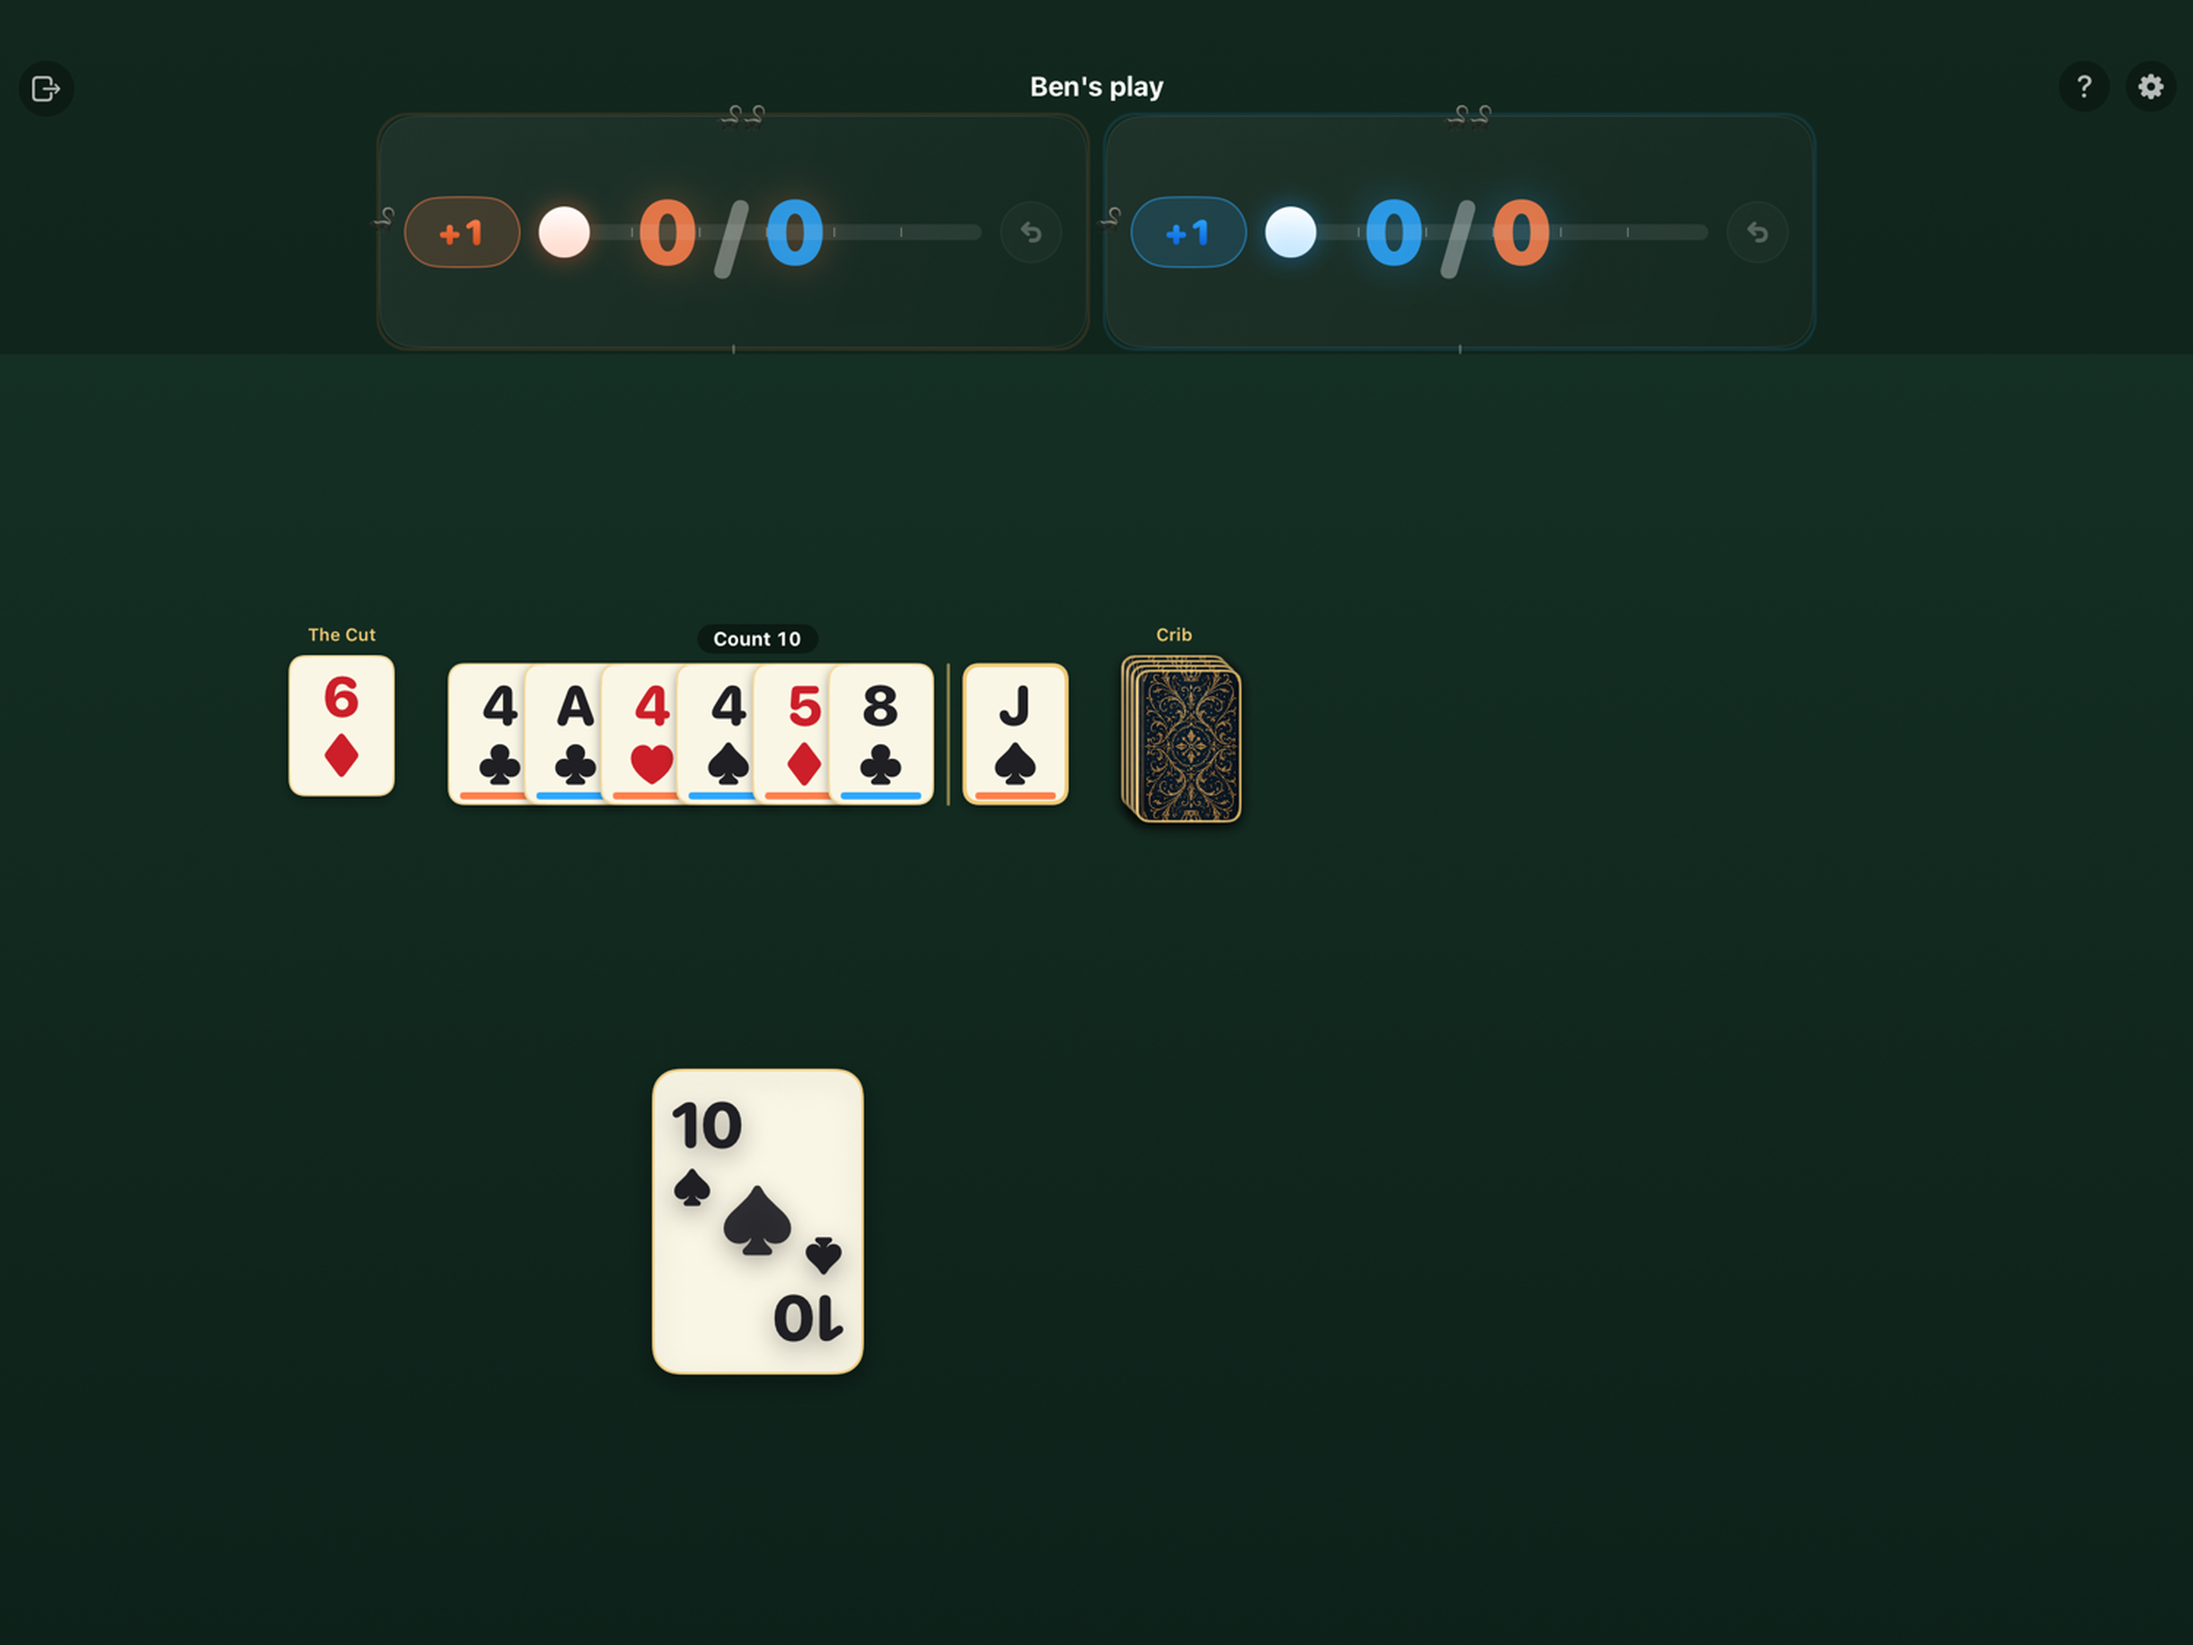
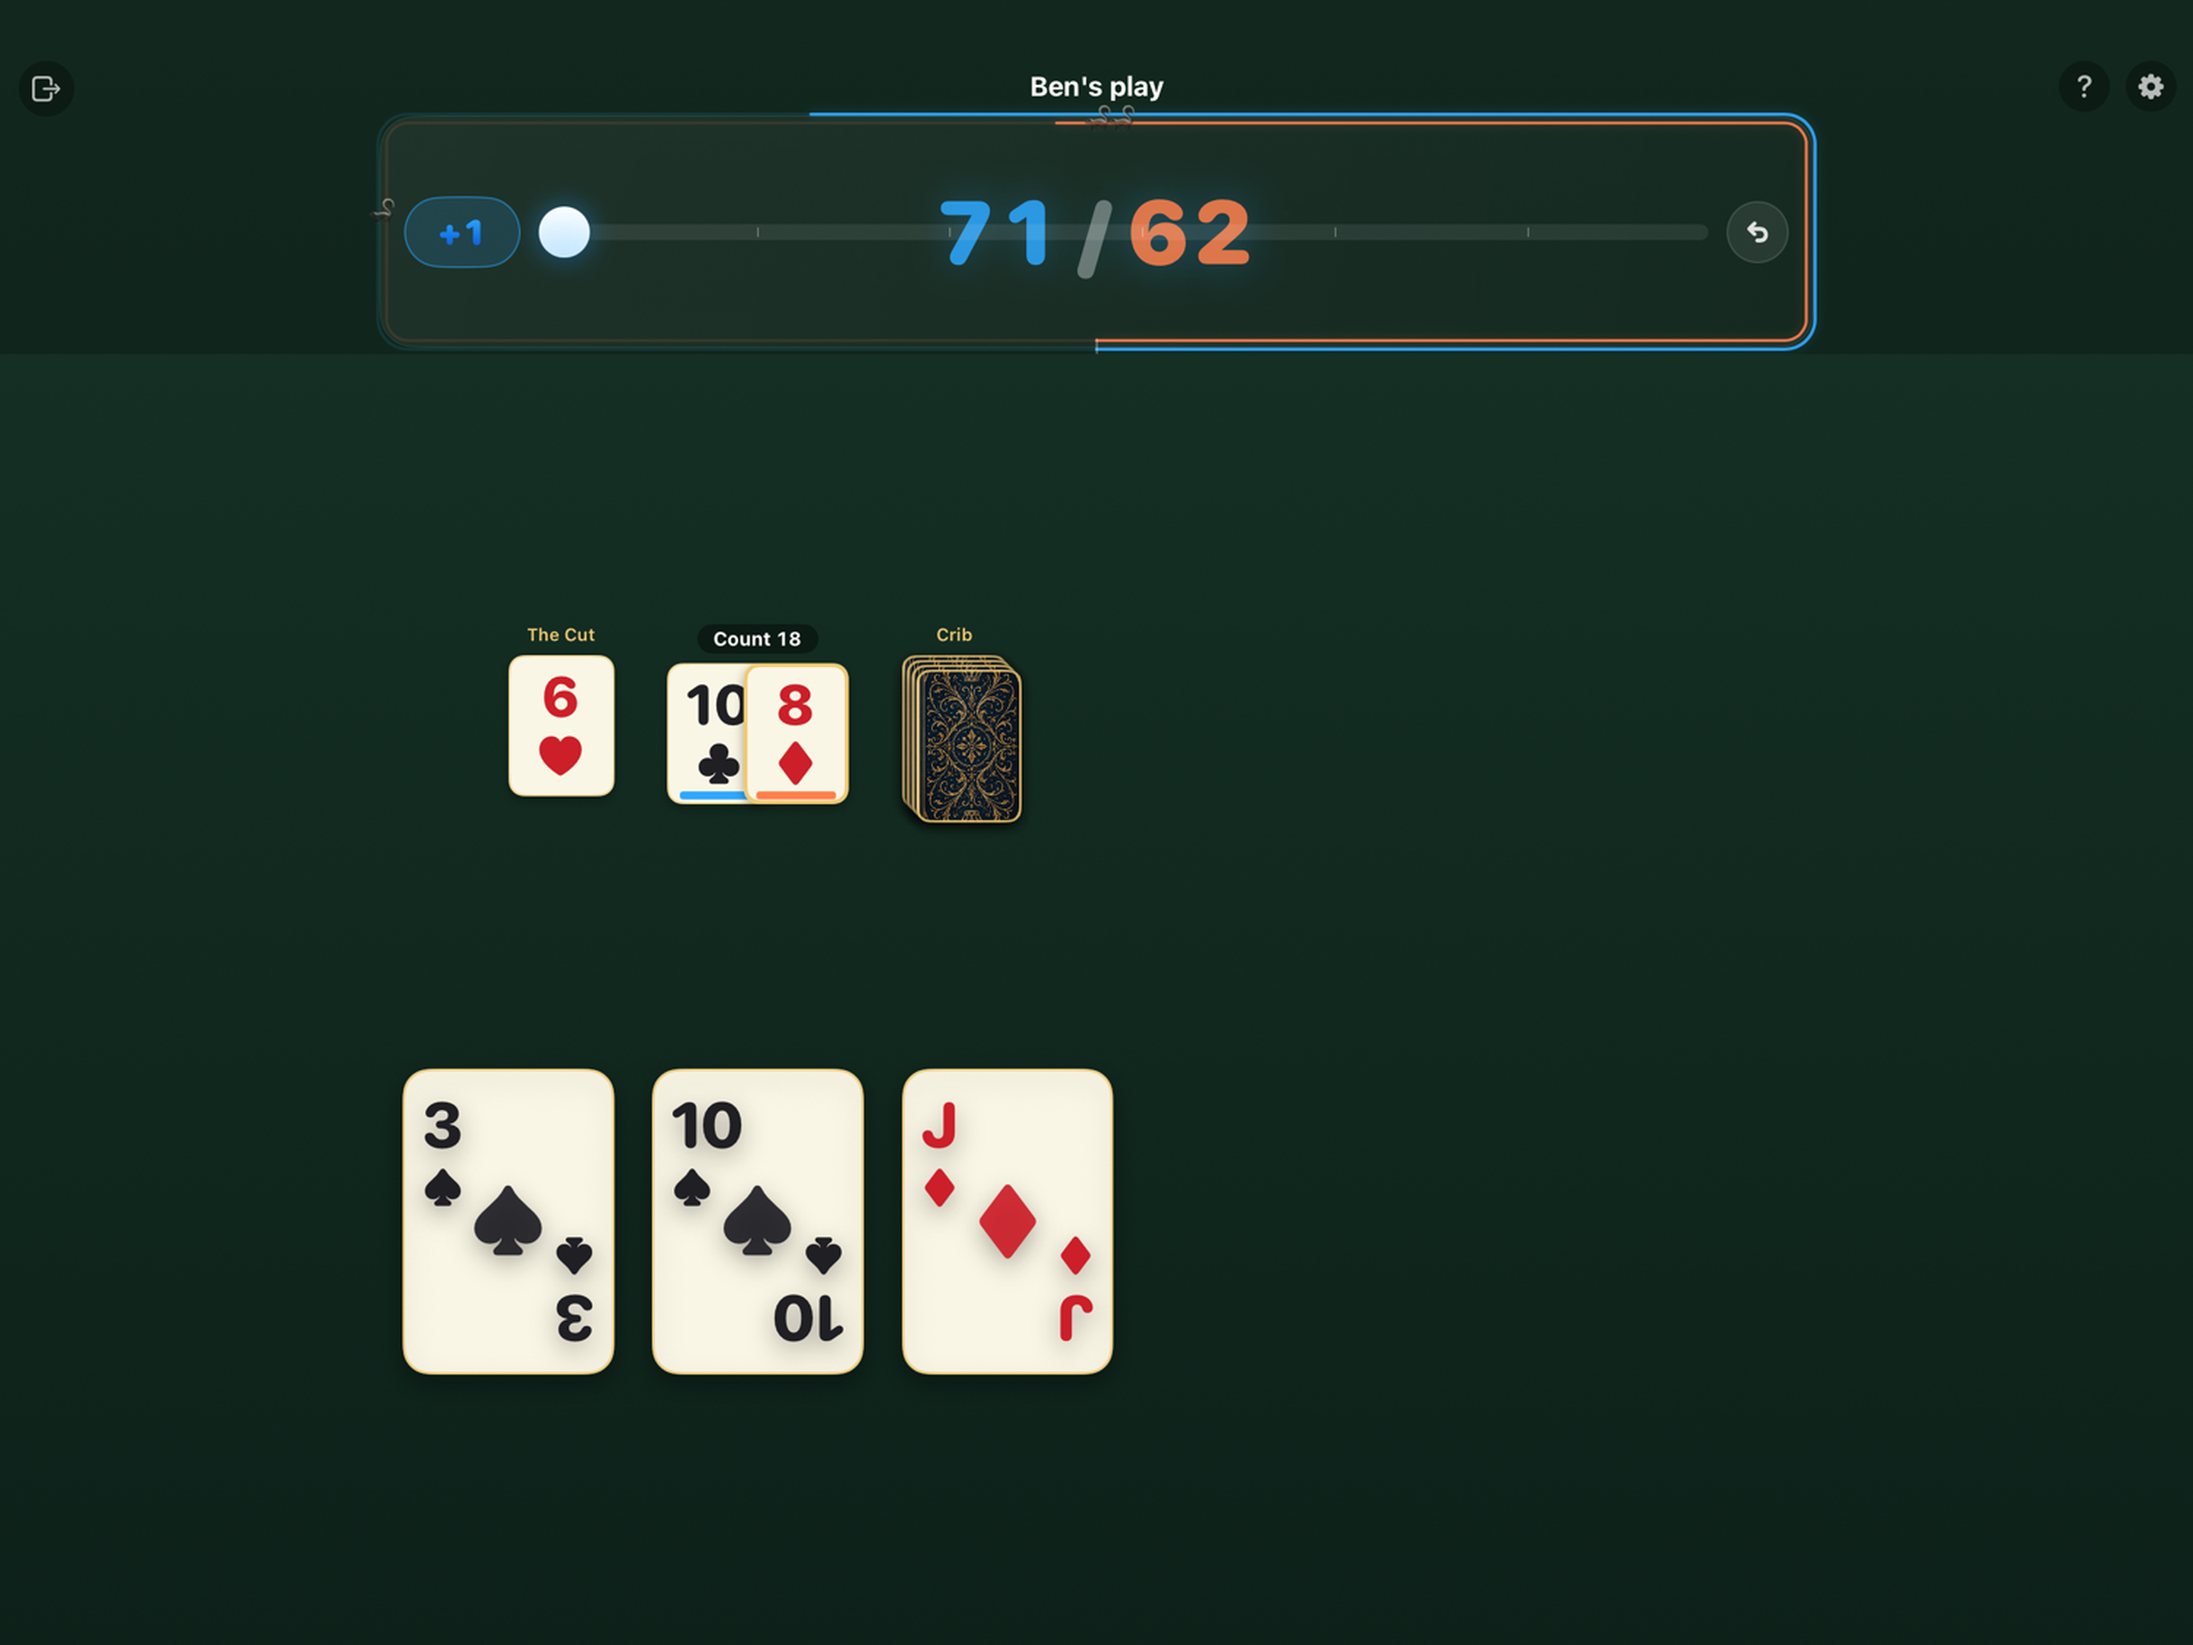
Regenerate the store screenshots and rewrite 1.7's metadata
Five shots now, all rendered from ScreenshotFixtures: pegging, the show, the in-person
cut, the scoreboard, and the skunk win. The scoreboard is new to the set — it's the
reason a lot of people will want the app — and What's New covers the whole release
rather than only the pre-board-mode half of it: scoreboard mode, achievements and the
leaderboard, the stats history, connection recovery through a force quit, crib markers,
the last-card call, large-text fixes, and iPad sizing.

Description gains "Just keeping score?" and "Your record" sections; keywords trade
"classic" for "scoreboard".

diff --git a/Pair for two/ScreenshotFixtures.swift b/Pair for two/ScreenshotFixtures.swift
@@ -18,6 +18,11 @@ import SwiftUI
 // Render each preview below at the required device and scale it to Apple's exact pixels:
 // iPhone 6.9" → 2868 × 1320, iPad 13" → 2752 × 2064.
 
+/// Set while the screenshot previews render, so `DealtCardsRow` starts fully dealt rather than
+/// animating cards in — a preview snapshot is taken on the first frame, where the animation has
+/// revealed nothing and the table photographs empty.
+nonisolated(unsafe) var dealsCardsInstantly = false
+
 /// Stands in for a host: delivers one prepared snapshot, then holds the line open.
 nonisolated final class PreviewSnapshotTransport: GameTransport, Sendable {
 
@@ -80,17 +85,28 @@ enum ScreenshotFixture {
         CribbageEngine.claim(&s, player: .two, amount: ben)
     }
 
-    /// Shot 1 — mid-play: cards on the pile, a running count worth reading, and the guest on turn.
+    /// Shot 1 — mid-play: cards on the pile, a running count worth reading, and the guest holding
+    /// cards they can actually play. Seeds are searched because the first position to hand is often
+    /// "no card to play — say Go", which shows a greyed-out hand and explains nothing.
     static func pegging() -> PlayerSnapshot {
-        var s = dealt(seed: 77)
+        for bump in 0..<400 {
+            var s = dealt(seed: 2000 &+ UInt64(bump))
+            cutStarter(&s)
+            score(&s, ann: 62, ben: 71)
+            var steps = 0
+            while s.whoseTurn != nil, steps < 12 {
+                if s.whoseTurn == .two, s.playSequence.count >= 2, (10...24).contains(s.runningCount),
+                   s.unplayed(of: .two).count >= 3,
+                   !CribbageScorer.legalPlays(hand: s.unplayed(of: .two), count: s.runningCount).isEmpty {
+                    return s.snapshot(for: .two)
+                }
+                playOne(&s)
+                steps += 1
+            }
+        }
+        var s = dealt(seed: 2000)
         cutStarter(&s)
         score(&s, ann: 62, ben: 71)
-        var steps = 0
-        while s.whoseTurn != nil, steps < 12 {
-            if s.whoseTurn == .two, s.runningCount >= 12, s.playSequence.count >= 3 { break }
-            playOne(&s)
-            steps += 1
-        }
         return s.snapshot(for: .two)
     }
 
@@ -128,7 +144,8 @@ enum ScreenshotFixture {
         CribbageEngine.advance(&s)
         // A believable path to 121 rather than one giant claim, so the win screen's scoring replay
         // has something to replay.
-        for amount in [12, 9, 16, 8, 14, 11, 7, 15, 6, 13] {
+        // Ann finishes on 77 — under 91, so the win screen is the skunk celebration.
+        for amount in [12, 9, 16, 8, 14, 11, 7] {
             CribbageEngine.claim(&s, player: .one, amount: amount)
         }
         for amount in [16, 21, 14, 19, 12, 17, 22] {
@@ -153,6 +170,10 @@ private struct GuestShot: View {
     @State private var vm: GameViewModel
 
     init(_ snapshot: PlayerSnapshot) {
+        dealsCardsInstantly = true
+        // A finished game otherwise opens on the pre-win scoring replay, which is what would get
+        // photographed instead of the win itself.
+        UserDefaults.standard.set(false, forKey: "replayBeforeWin")
         _vm = State(initialValue: GameViewModel.previewGuest(snapshot: snapshot))
     }
 
@@ -175,8 +196,22 @@ private struct GuestShot: View {
     GuestShot(ScreenshotFixture.winner())
 }
 
+/// The scoreboard shot, with both seats named and colored to match the play shots — the stored
+/// defaults are otherwise the unnamed "Player"/"Opponent" a fresh install starts with.
+private struct BoardShot: View {
+    init() {
+        let defaults = UserDefaults.standard
+        defaults.set("Ben", forKey: "localName")
+        defaults.set(7, forKey: "localColorID")
+        defaults.set("Ann", forKey: "boardFarName")
+        defaults.set(1, forKey: "boardFarColorID")
+    }
+
+    var body: some View { BoardView(onExit: {}, startGame: ScreenshotFixture.board()) }
+}
+
 #Preview("Shot 5 — scoreboard", traits: .landscapeLeft) {
-    BoardView(onExit: {}, startGame: ScreenshotFixture.board())
+    BoardShot()
 }
 
 #endif

diff --git a/Pair for two/GameTableView.swift b/Pair for two/GameTableView.swift
@@ -1171,7 +1171,18 @@ private struct DealtCardsRow: View {
     /// Optional per-card marker drawn just below the card — used by the crib to show, in each
     /// player's color, who put that card in. Returns nil for cards that shouldn't be marked.
     var marker: (Card) -> (color: Color, name: String)? = { _ in nil }
-    @State private var revealed = 0
+    @State private var revealed = DealtCardsRow.initialRevealed
+
+    /// Normally nothing is revealed until the deal-in animation runs. The App Store screenshot
+    /// previews start fully dealt instead: a preview snapshot is taken on the first frame, where the
+    /// animation has revealed no cards at all, leaving an empty table in the shot.
+    private static var initialRevealed: Int {
+#if DEBUG
+        dealsCardsInstantly ? Int.max : 0
+#else
+        0
+#endif
+    }
 
     var body: some View {
         HStack(spacing: 8) {
@@ -1196,6 +1207,9 @@ private struct DealtCardsRow: View {
             }
         }
         .task(id: dealSignal) {
+#if DEBUG
+            if dealsCardsInstantly { revealed = cards.count; return }
+#endif
             revealed = 0
             guard !cards.isEmpty else { return }
             // One riffle for the whole deal-out. Per-card feedback fired a synchronous Core Haptics

diff --git a/Marketing/README.md b/Marketing/README.md
@@ -5,8 +5,8 @@ Everything for submitting **Pair for Two**.
 ## Contents
 - **`APP_STORE.md`** — copy/paste metadata: name, subtitle, promo text, description, keywords, what's‑new, category, age rating, privacy answers, export compliance, and **App Review notes** (important: it's a two‑device game).
 - **Website** — the single‑page **privacy policy + contact/support** (apps@feingold5.com) lives at **`docs/index.html`** (repo root) and is published via **GitHub Pages** at **https://jiroikedafeingold.github.io/pair-for-two/**. Use that URL for the Support URL, Marketing URL, and Privacy Policy URL fields. It covers **both apps** — iOS/iPadOS and the Android build in `~/Projects/PairForTwoAndroid` — so it also serves Play's privacy‑policy requirement and its data‑safety answers. Keep it that way: anything that changes what either app sends over the wire (a new transport, an online mode on Android) needs a matching edit here.
-- **`screenshots/iphone-6.9/`** — 4 screenshots, **2868 × 1320** (iPhone 6.9", landscape). One 6.9" set covers all iPhone sizes.
-- **`screenshots/ipad-13/`** — 4 screenshots, **2752 × 2064** (iPad 13", landscape).
+- **`screenshots/iphone-6.9/`** — 5 screenshots, **2868 × 1320** (iPhone 6.9", landscape). One 6.9" set covers all iPhone sizes.
+- **`screenshots/ipad-13/`** — 5 screenshots, **2752 × 2064** (iPad 13", landscape).
 - **`screenshots/raw/`** — the source renders before upscaling (safe to delete).
 
 ## Screenshots
@@ -23,14 +23,17 @@ Generated from SwiftUI previews (landscape) and scaled to Apple's exact required
   it's what a new player sees. `.feedback` puts scoring flag chips on the rail that most people
   never see.
 - **Never capture through the debug pass-and-play (loopback) path.** It's `#if DEBUG` only and
-  compiled out of release, so it isn't the shipping experience. Reach the screens by pushing
-  fixture data in instead — a DEBUG-only preview transport that delivers a hand-built
-  `PlayerSnapshot` renders through the ordinary guest path.
-- Capture gotchas, both of which cost time before: the preview snapshot is taken on the **first
-  frame**, so any deal-in animation renders invisible (and Xcode preserves `@State` across edits,
-  so bumping an initial value won't fix it — the row has to be static for the shot); and the winner
-  preview lands on the **pre-win scoring replay** unless `replayBeforeWin` is temporarily defaulted
-  off.
+  compiled out of release, so it isn't the shipping experience — and the phone there rotates to
+  whoever is acting, which no real device does. `ScreenshotFixtures` instead drives the engine to a
+  legal position, redacts it into the snapshot a guest really receives, and renders it through the
+  ordinary guest path with the seat fixed (`GameViewModel.previewGuest`).
+- The capture gotchas are handled in `GuestShot.init`, and are why it exists: a preview snapshot is
+  taken on the **first frame**, where the deal-in animation has revealed nothing (`dealsCardsInstantly`
+  starts the row fully dealt), and a finished game opens on the **pre-win scoring replay** unless
+  `replayBeforeWin` is off. Xcode also preserves `@State` across edits, so bumping an initial value
+  by hand won't fix the first of those.
+- Fixtures search seeds rather than hard-coding a position: the first hand to hand is often "no card
+  to play — say Go" (a greyed-out hand) or a four-point show, neither of which sells anything.
 
 ## Game Center (achievements + leaderboard)
 
